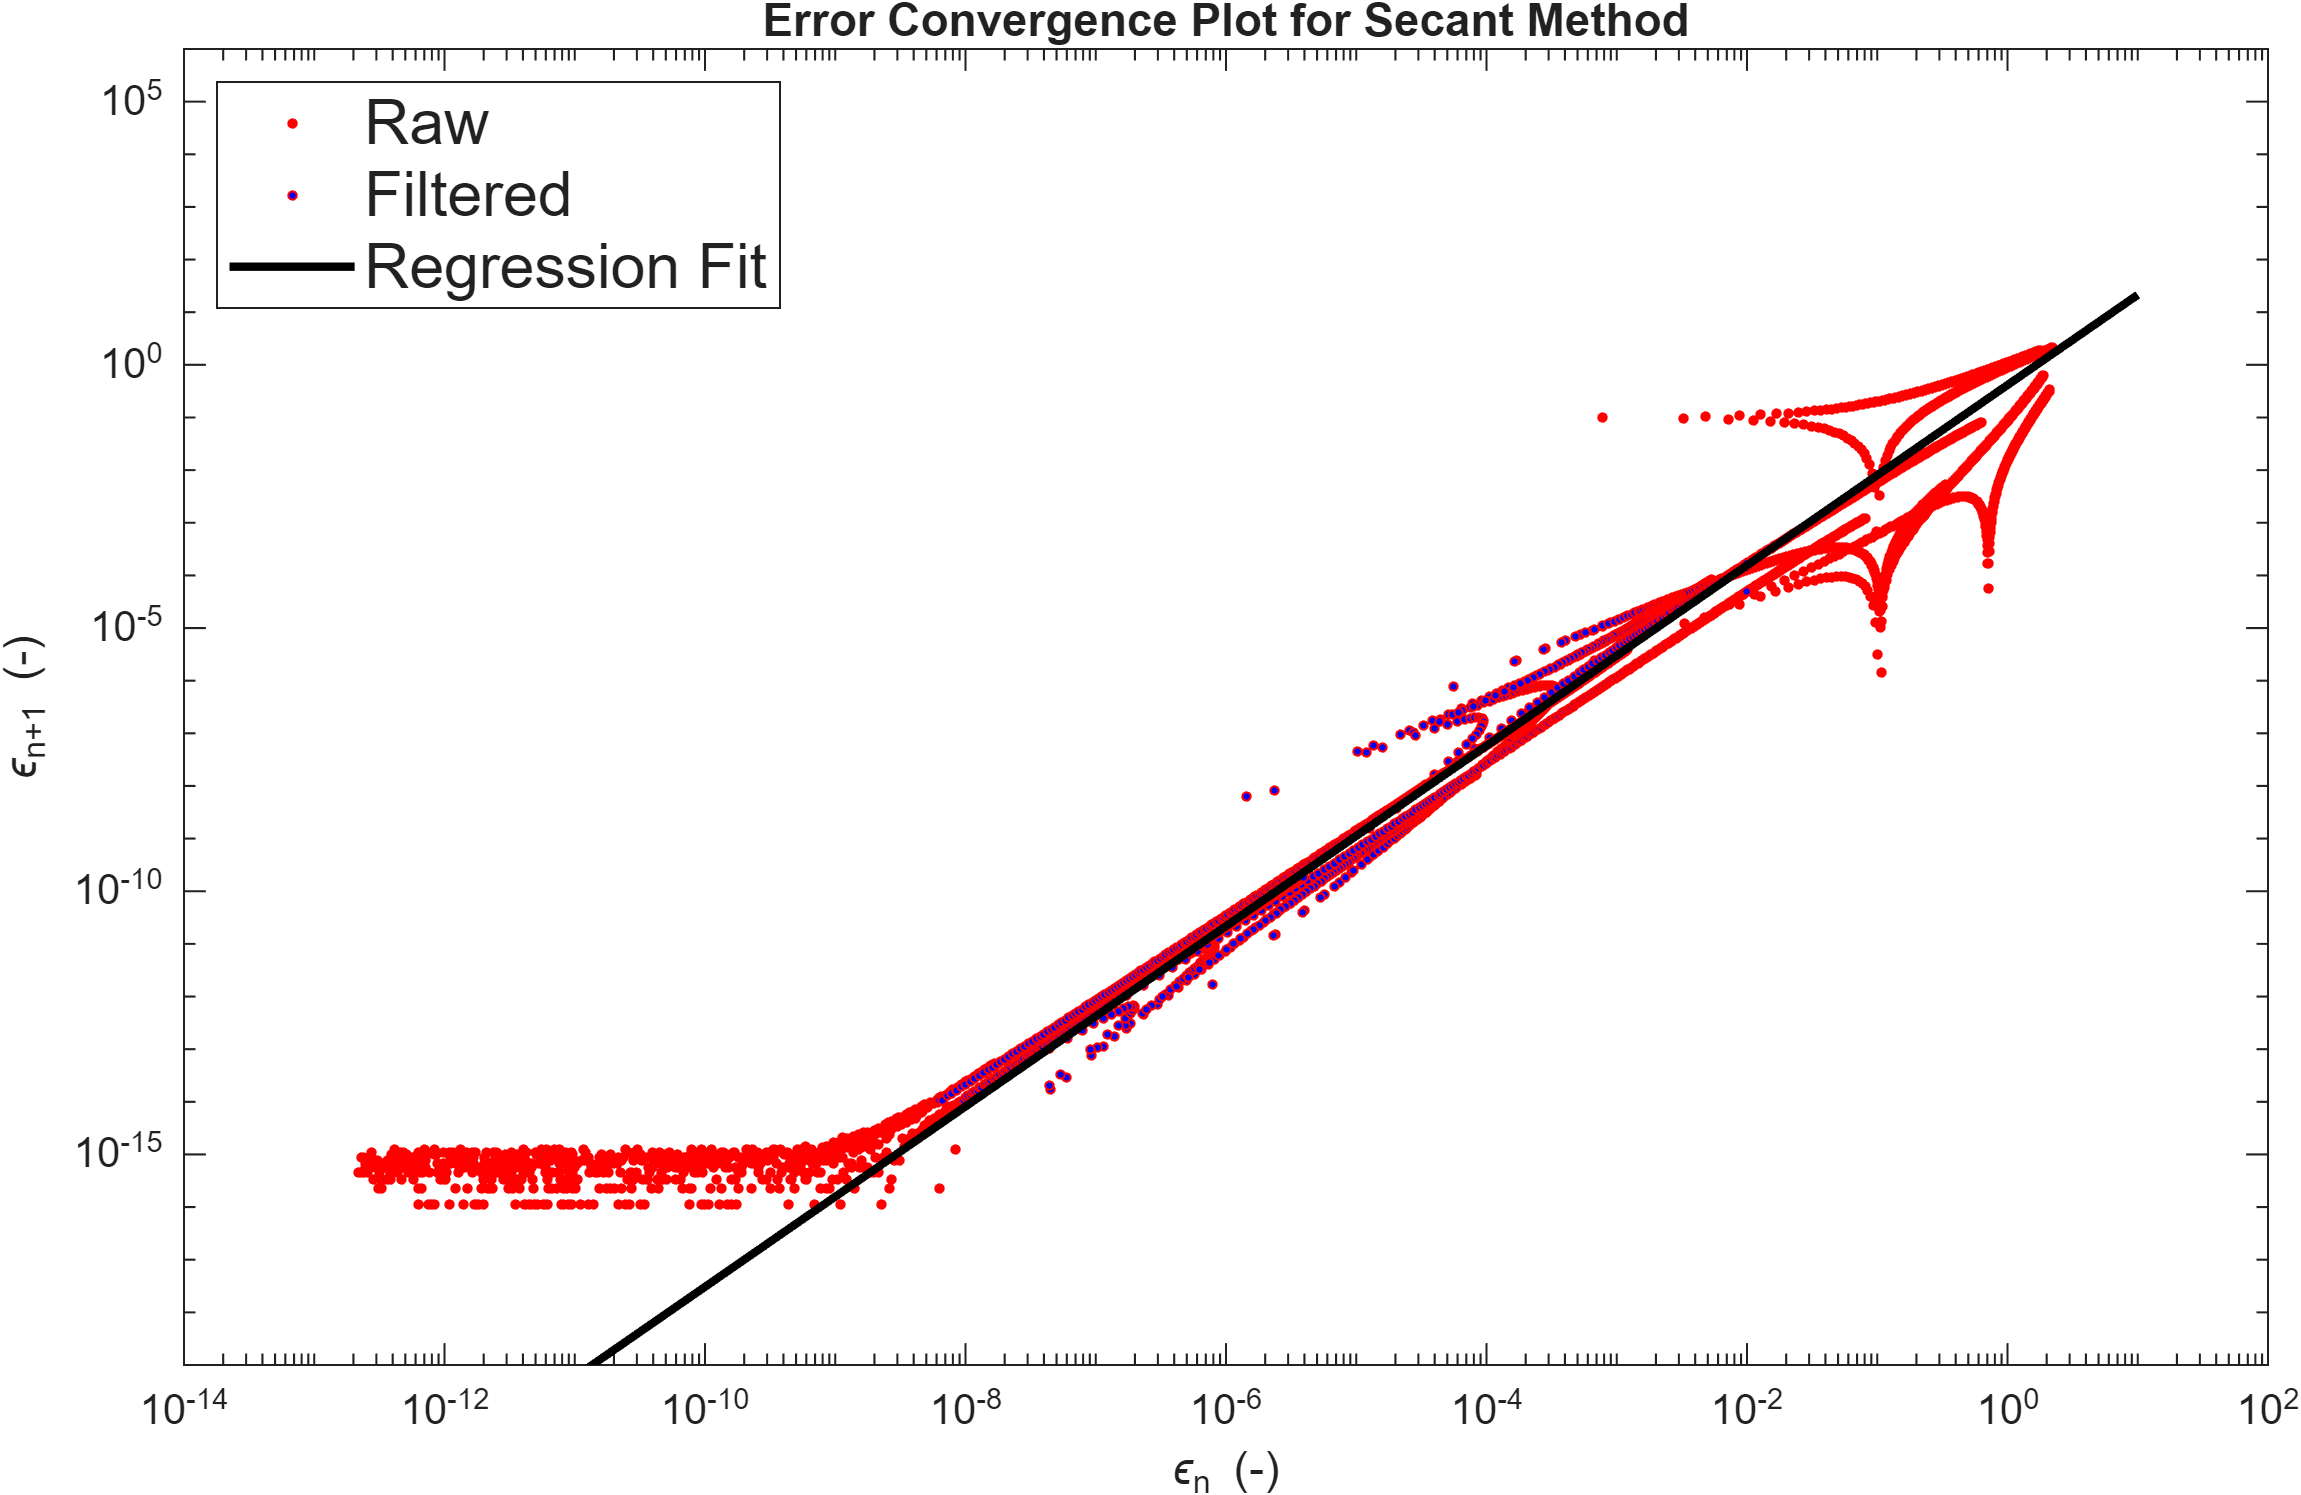
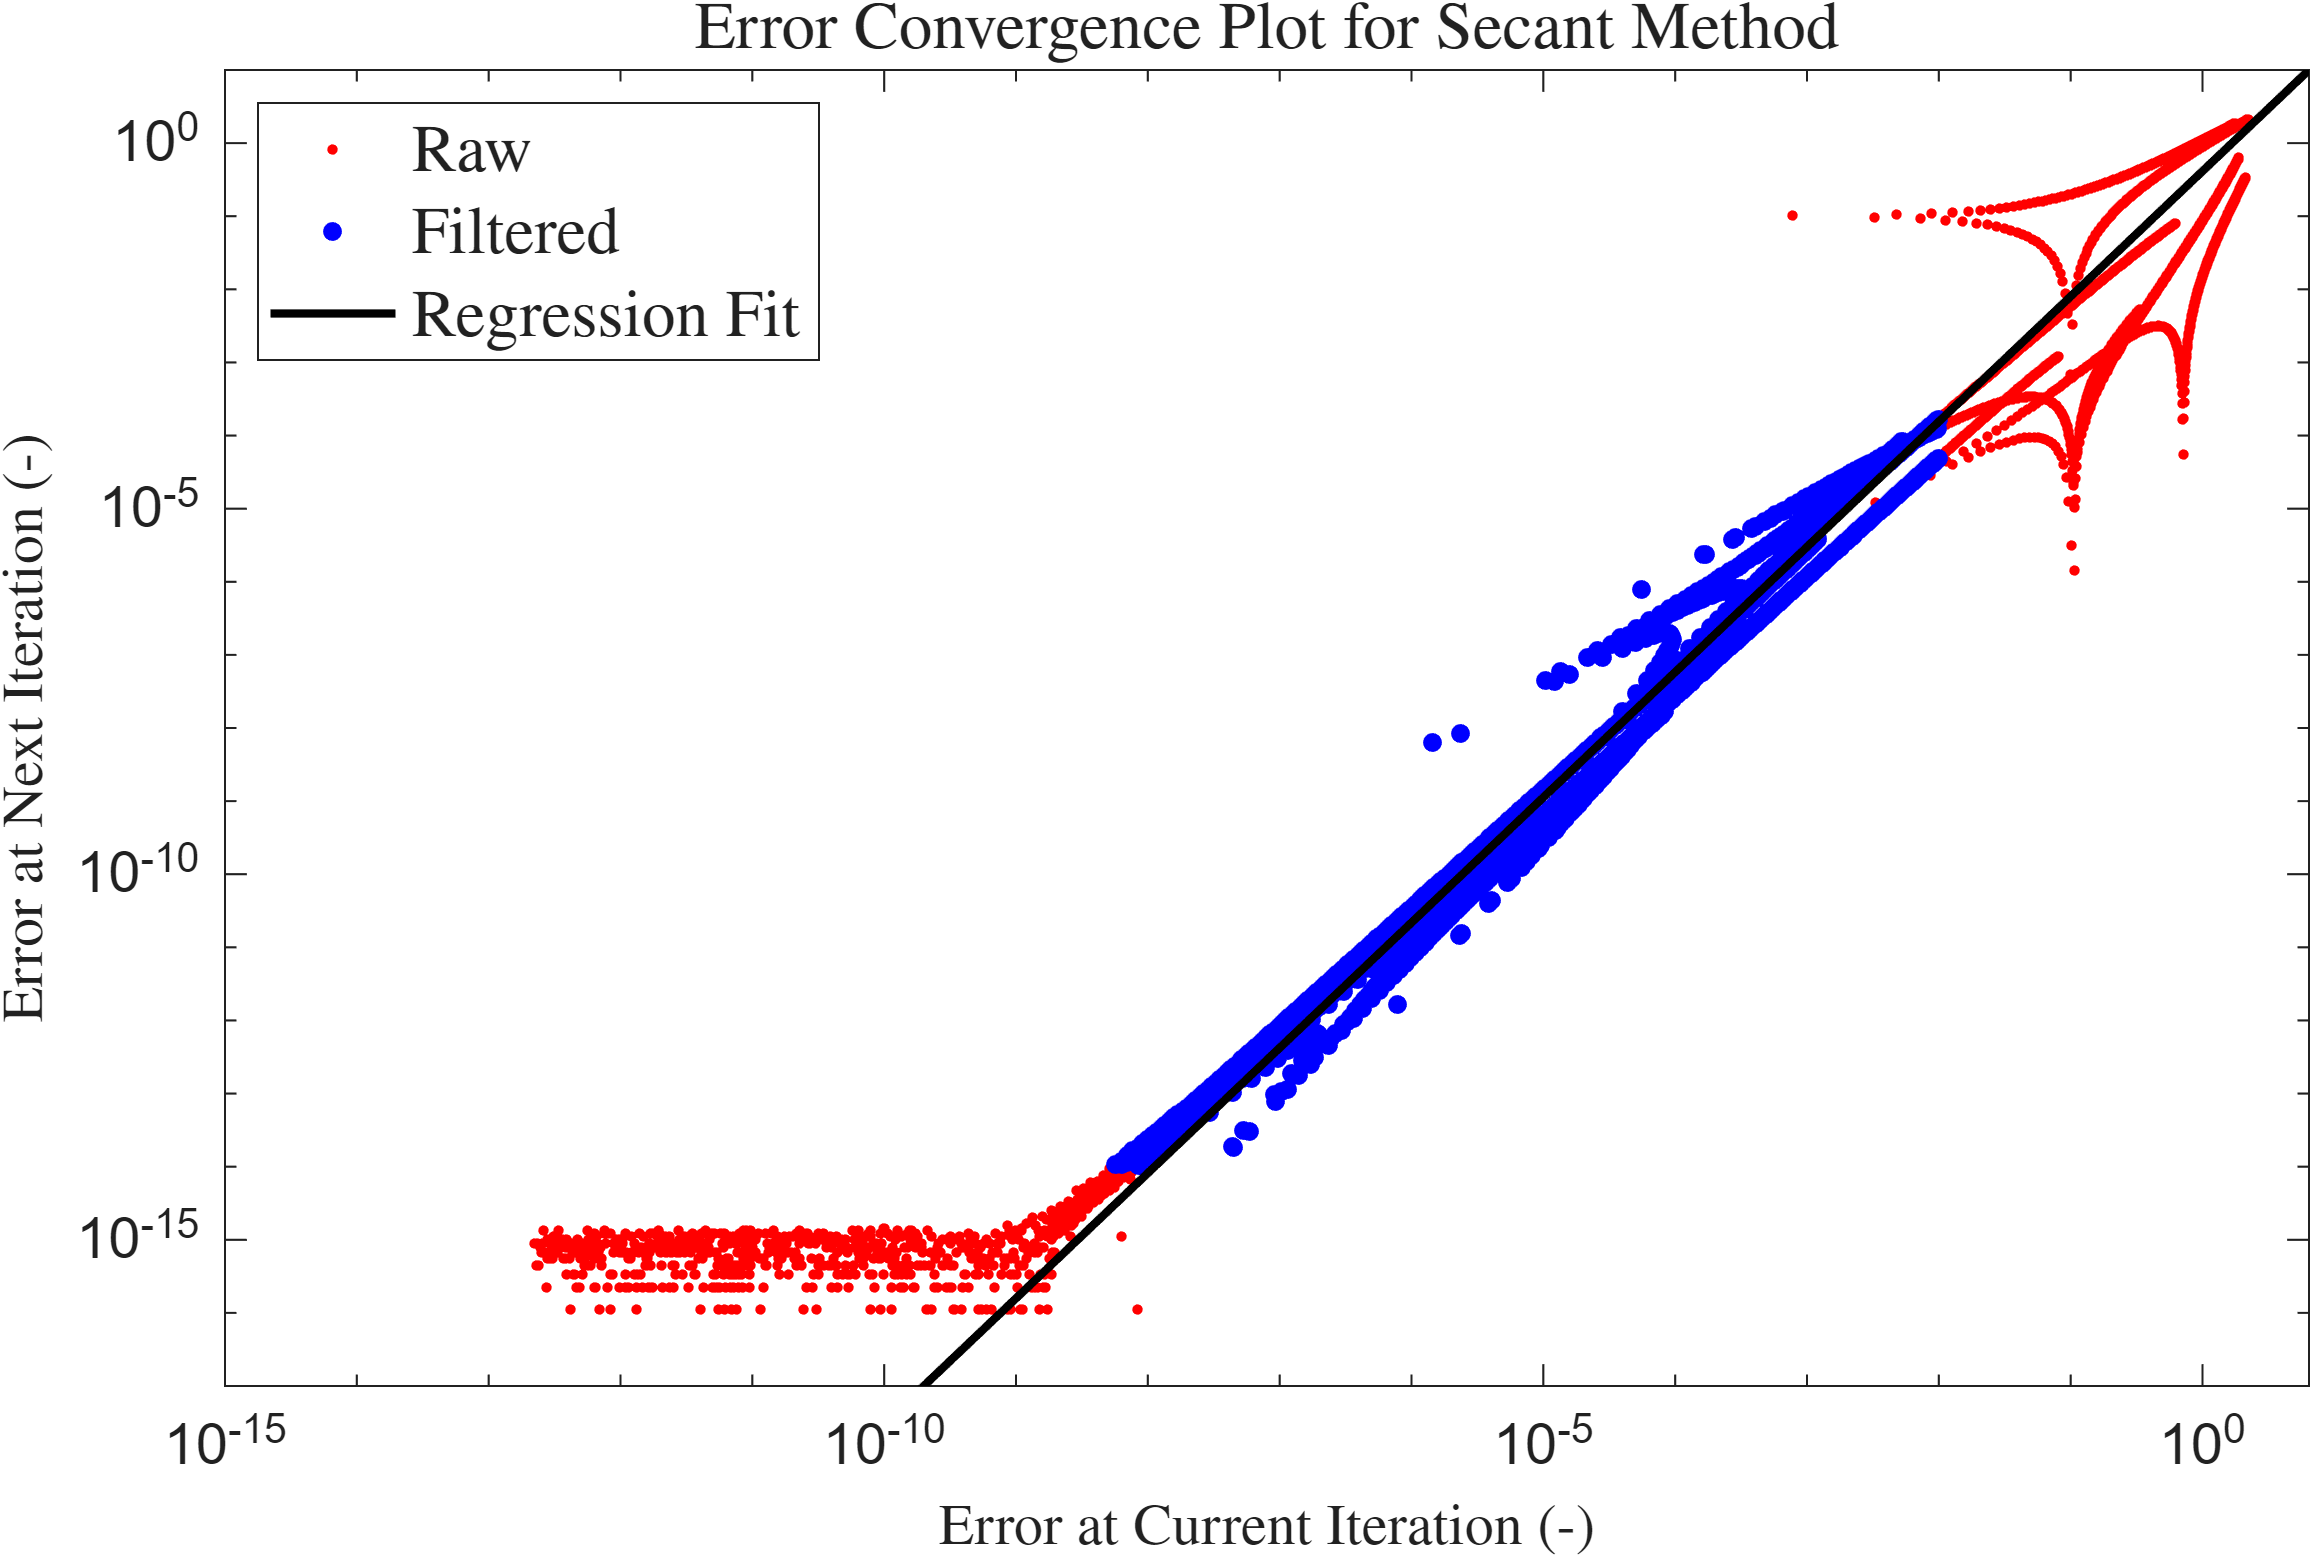
prettified plots

diff --git a/sigmoid_testing.m b/sigmoid_testing.m
@@ -6,6 +6,11 @@ ftol = 1e-12;
 max_iter = 2000;
 dxmax = 1e10;
 
+fontsize_axis = 14;
+fontsize_title = 18;
+ax = gca;
+ax.FontSize = 13;
+
 % NEWTON 
 x_newt_good = [];
 y_newt_good = [];
@@ -29,17 +34,20 @@ end
 figure();
 plot_x = linspace(0, 50, 1000);
 [y, ~] = sigmoid(plot_x);
-
-plot(plot_x, y)
+fontsize_axis = 14;
+fontsize_title = 16;
+ax = gca;
+ax.FontSize = 14;
 hold on
-plot(x_newt_good, y_newt_good, "ro", 'Color','g')
-plot(x_newt_bad, y_newt_bad, "ro", 'Color','r')
-plot(target_root, 0, "o", "MarkerFaceColor","k")
+plot(x_newt_good, y_newt_good, "ro", 'Color','g', MarkerFaceColor='g')
+plot(x_newt_bad, y_newt_bad, "ro", 'Color','r', MarkerFaceColor='r')
+plot(target_root, 0, "o", "MarkerFaceColor","k", MarkerEdgeColor='k')
 plot(plot_x, x_zero, 'Color', 'k');
-title("Newton's Method Initial Guess Evaluation")
-ylabel("F(x)")
-xlabel("x")
-legend("Function", "Successful Initial Guesses", "Failed Initial Guesses", "Root Location", Location='northwest')
+ylim([-5 6])
+title("Newton's Method Initial Guess Convergence Evaluation for Sigmoid Function", 'FontSize', fontsize_title, "Interpreter","latex")
+ylabel("Sigmoid Function - F(x0) (-)", 'FontSize', fontsize_axis, "Interpreter","latex")
+xlabel("Initial Guess - x0 (-)", 'FontSize', fontsize_axis, "Interpreter","latex")
+legend( "Successful Initial Guesses", "Failed Initial Guesses", "Root Location", Location='northwest', fontsize=16, Interpreter="latex")
 hold off
 exportgraphics(gca, 'plots/newton_sigmoid.png', 'Resolution', 300);
 
@@ -67,17 +75,20 @@ end
 figure();
 plot_x = linspace(0, 50, 1000);
 [y, ~] = sigmoid(plot_x);
-
-plot(plot_x, y)
+fontsize_axis = 14;
+fontsize_title = 16;
+ax = gca;
+ax.FontSize = 13;
 hold on
-plot(x_fzero_good, y_fzero_good, "ro", 'Color','g')
-plot(x_fzero_bad, y_fzero_bad, "ro", 'Color','r')
-plot(target_root, 0, "o", "MarkerFaceColor","k")
-plot(plot_x, x_zero, 'Color', 'k');
-title("Fzero Method Initial Guess Evaluation")
-ylabel("F(x)")
-xlabel("x")
-legend("Function", "Successful Initial Guesses", "Root Location", Location='northwest')
+plot(x_fzero_good, y_fzero_good, "ro", 'Color','g', MarkerFaceColor='g')
+plot(x_fzero_bad, y_fzero_bad, "ro", 'Color','r', MarkerFaceColor='r')
+plot(target_root, 0, "o", "MarkerFaceColor","k", MarkerEdgeColor='k')
+plot(plot_x, x_zero, 'Color', 'k', MarkerEdgeColor='k');
+ylim([-5 6])
+title("Fzero Method Initial Guess Convergence Evaluation for Sigmoid Function", 'FontSize', fontsize_title, "Interpreter","latex")
+ylabel("Sigmoid Function - F(x0) (-)", 'FontSize', fontsize_axis, "Interpreter","latex")
+xlabel("Initial Guess - x0 (-)", 'FontSize', fontsize_axis, "Interpreter","latex")
+legend("Successful Initial Guesses", "Root Location", Location='northwest' ,fontsize=16, Interpreter="latex")
 hold off
 exportgraphics(gca, 'plots/fzero_sigmoid.png', 'Resolution', 300);
 
@@ -110,16 +121,21 @@ for i=1:length(x_list)^2
 end
 
 figure();
+fontsize_axis = 14;
+fontsize_title = 16;
+ax = gca;
+ax.FontSize = 13;
 hold on
-plot(x_bi_good, y_bi_good, "o", 'MarkerFaceColor','g')
-plot(x_bi_bad, y_bi_bad, "o", 'MarkerFaceColor','r')
-plot(target_root, target_root, "o", "MarkerFaceColor","k")
+plot(x_bi_good, y_bi_good, "o", 'MarkerFaceColor','g', MarkerEdgeColor='g')
+plot(x_bi_bad, y_bi_bad, "o", 'MarkerFaceColor','r', MarkerEdgeColor='r')
+plot(target_root, target_root, "o", "MarkerFaceColor","k", MarkerEdgeColor='k')
 plot(lines, lines_2, 'Color', 'k')
 plot(lines_2, lines, 'Color', 'k')
-title("Bisection Method Initial Guess Evaluation")
-ylabel("x right")
-xlabel("x left")
-legend("Successful Initial Guesses", "Failed Initial Guesses", "Root Location", Location='northwest')
+t = title("Bisection Method Initial Guess Convergence Evaluation for Sigmoid Function", 'FontSize', fontsize_title, "Interpreter","latex")
+t.Position(2) = t.Position(2) + .5;
+ylabel("Initial Right X Guess (-)", 'FontSize', fontsize_axis, "Interpreter","latex")
+xlabel("Initial Left X Guess (-)", 'FontSize', fontsize_axis, "Interpreter","latex")
+legend("Successful Initial Guesses", "Failed Initial Guesses", "Root Location", Location='northwest',fontsize=16, Interpreter="latex")
 hold off
 exportgraphics(gca, 'plots/bisection_sigmoid.png', 'Resolution', 300);
 
@@ -146,16 +162,21 @@ for i=1:length(x_list)^2
 end
 
 figure();
+fontsize_axis = 14;
+fontsize_title = 16;
+ax = gca;
+ax.FontSize = 13;
 hold on
-plot(x_sec_good, y_sec_good, "o", 'MarkerFaceColor','g')
-plot(x_sec_bad, y_sec_bad, "o", 'MarkerFaceColor','r')
-plot(target_root, target_root, "o", "MarkerFaceColor","k")
-title("Secant Method Initial Guess Evaluation")
+plot(x_sec_good, y_sec_good, "o", 'MarkerFaceColor','g', MarkerEdgeColor='g')
+plot(x_sec_bad, y_sec_bad, "o", 'MarkerFaceColor','r', MarkerEdgeColor='r')
+plot(target_root, target_root, "o", "MarkerFaceColor","k", MarkerEdgeColor='k')
+ylabel("Initial X1 Guess (-)", 'FontSize', fontsize_axis, Interpreter ="latex")
+xlabel("Initial X0 Guess (-)", 'FontSize', fontsize_axis,  Interpreter ="latex")
+t = title("Secant Method Initial Guess Convergence Evaluation for Sigmoid Function", 'FontSize', fontsize_title, "Interpreter","latex")
+t.Position(2) = t.Position(2) + .5;
 plot(lines, lines_2, 'Color', 'k')
 plot(lines_2, lines, 'Color', 'k')
-ylabel("x right")
-xlabel("x left")
-legend("Successful Initial Guesses", "Failed Initial Guesses", "Root Location", Location='northwest')
+legend("Successful Initial Guesses", "Failed Initial Guesses", "Root Location", Location='northwest',fontsize=16, Interpreter="latex")
 hold off
 exportgraphics(gca, 'plots/secant_sigmoid.png', 'Resolution', 300);
 

diff --git a/convergence_benchmarking.m b/convergence_benchmarking.m
@@ -128,14 +128,19 @@ x_guess0, guess_list1, guess_list2, filter_list)
         'ro','markerfacecolor','r','markersize',2);
     hold on
     loglog(x_regression,y_regression,...
-        'ro','markerfacecolor','b','markersize',2);
+        'ro','markerfacecolor','b','markersize',4, 'MarkerEdgeColor','b');
     %plot on a loglog plot.
     loglog(fit_line_x,fit_line_y,'k-','linewidth',2)
     hold off
-    xlabel('\epsilon_n (-)'); ylabel('\epsilon_{n+1} (-)');
-    ylim([10E-20 10E5])
-    title('Error Convergence Plot for Fzero Method');
-    legend(["Raw", "Filtered","Regression Fit"],Location="Northwest", FontSize=15)
+    fontsize_axis = 14;
+    fontsize_title = 16;
+    ax = gca;
+    ax.FontSize = 14;
+    xlabel('Error at Current Iteration (-)', 'FontSize', fontsize_axis, "Interpreter","latex"); ylabel('Error at Next Iteration (-)', 'FontSize', fontsize_axis, "Interpreter","latex");
+    ylim([10E-18 10E0])
+    xlim([10E-17 10E3])
+    title('Error Convergence Plot for FZero Method', 'FontSize', fontsize_title, "Interpreter","latex");
+    legend(["Raw", "Filtered","Regression Fit"],Location="Northwest",fontsize=16, Interpreter="latex")
 
     exportgraphics(gca, 'plots/fzero.png', 'Resolution', 300);
 
@@ -191,7 +196,7 @@ iguess = linspace(ref-2,ref+2,num_iter);
 % 
 iguess_2 = iguess + 0.1;
 
-filter_list = [1e-15, 1e-2, 1e-14, 1e-2, 2];
+filter_list = [1e-14, 1e-2, 1e-14, 1e-2, 2];
 filter_list_parabola = [1e-6, 1e-2, 1e-6, 1e-2, 2];
 
-convergence_analysis(1,@test_function,.5,iguess,iguess_2,filter_list)
+convergence_analysis(4,@test_function,.5,iguess,iguess_2,filter_list)
